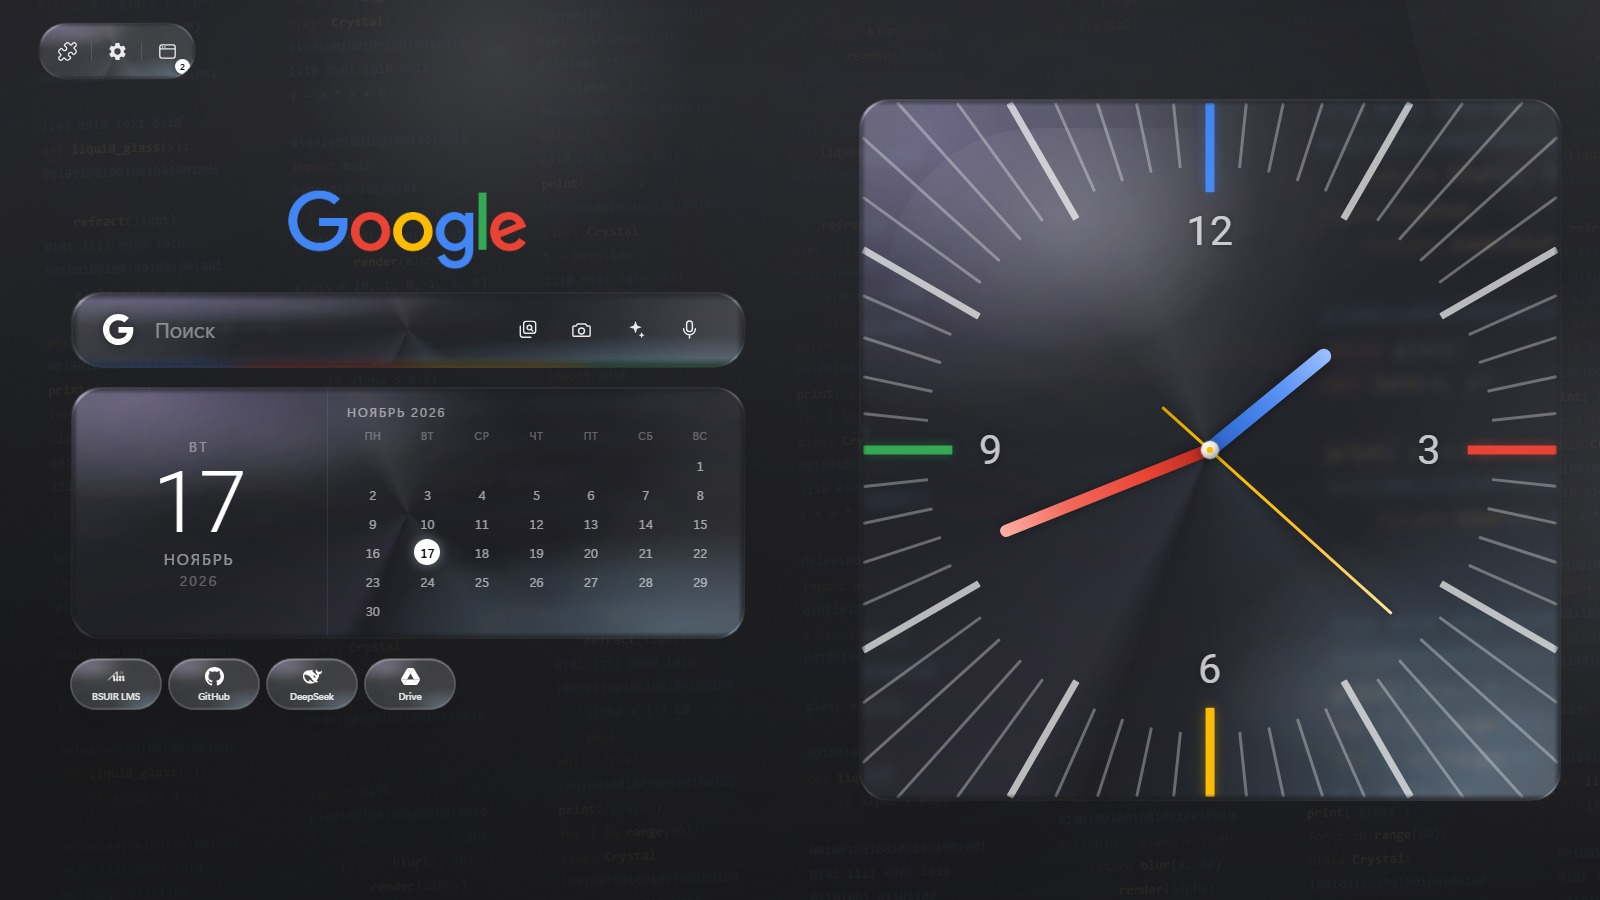
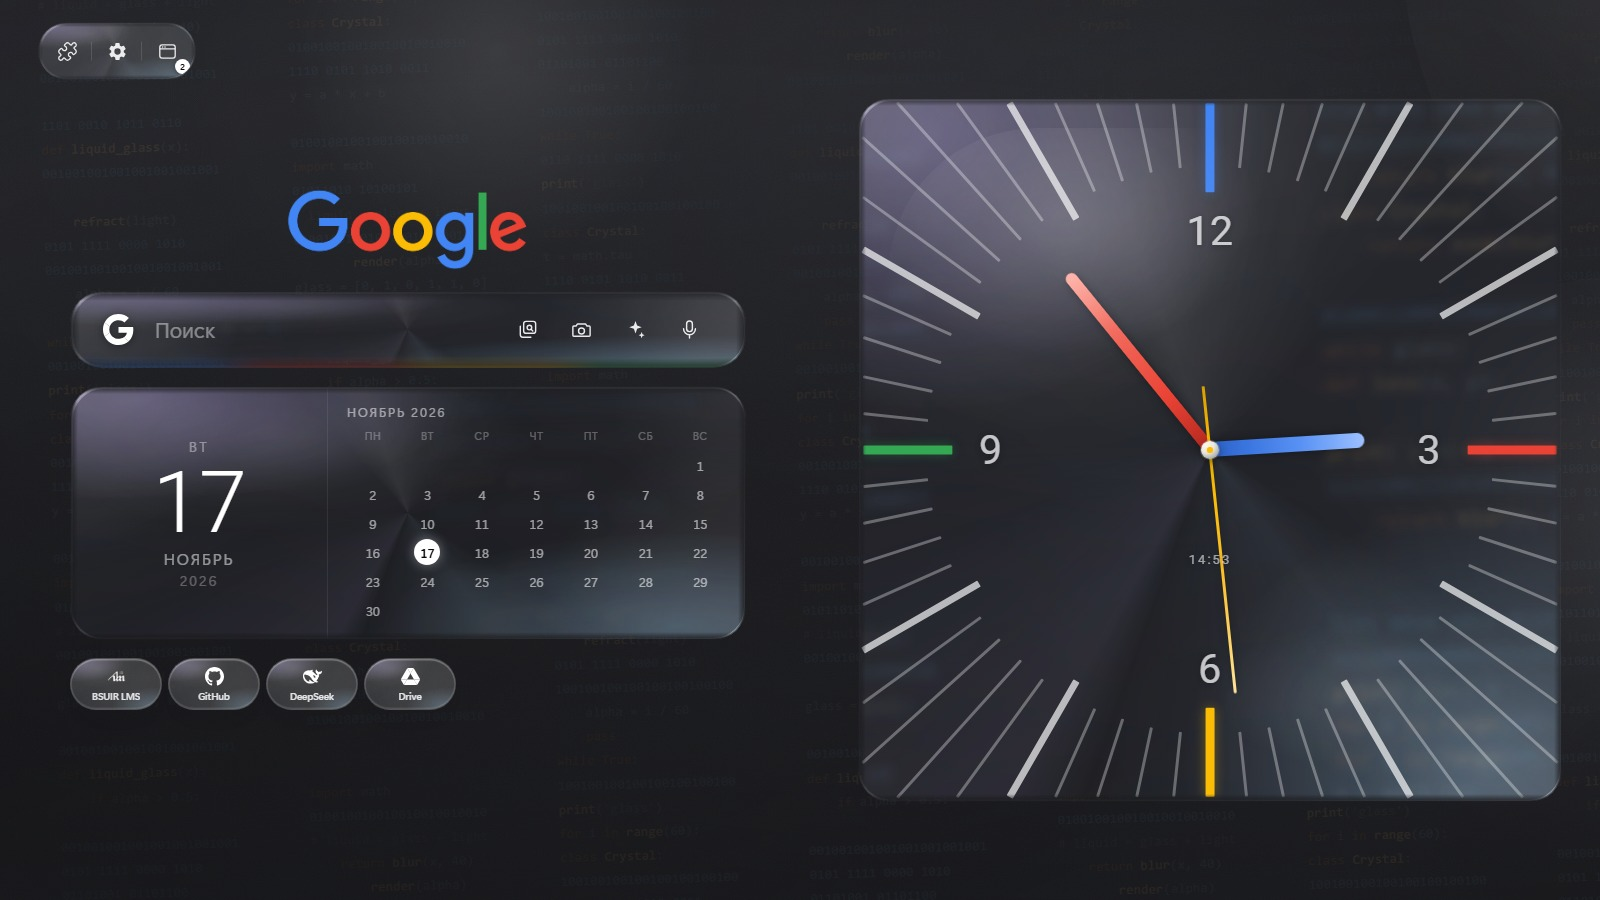
perf: optimize rendering and add digital clock time
- Add HH:MM display centered between the dial center and the 6 numeral
- Reduce background-code DOM by ~40% and remove full-page code blur
- Pause the clock when the tab is hidden or mostly offscreen
- Promote clock hands to compositor layers
- Update hour hand and digital time once per minute
- Translate README to English and refresh the main screenshot
- Bump extension version to 1.13.0

diff --git a/styles.css b/styles.css
@@ -85,7 +85,6 @@ body {
   pointer-events: none;
   user-select: none;
   opacity: 0.74;
-  filter: blur(0.4px);
 }
 
 .code__grid {
@@ -103,7 +102,7 @@ body {
   font-size: clamp(10px, 0.82vw, 12.5px);
   line-height: 1.85;
   letter-spacing: 0.02em;
-  color: rgba(169, 183, 198, 0.55);
+  color: rgba(169, 183, 198, 0.60);
 }
 
 /* палитра Darcula / PyCharm */
@@ -112,8 +111,6 @@ body {
 .tok-num     { color: rgba(104, 151, 187, 0.95); }
 .tok-fn      { color: rgba(255, 198, 109, 0.90); }
 .tok-comment { color: rgba(122, 126, 133, 0.85); }
-.tok-op      { color: rgba(169, 183, 198, 0.70); }
-.tok-name    { color: rgba(169, 183, 198, 0.60); }
 
 .code-veil {
   position: fixed;
@@ -159,7 +156,6 @@ body {
   top: -14%;
   right: -6%;
   background: radial-gradient(circle at 42% 38%, rgba(255, 255, 255, 0.36), rgba(255, 255, 255, 0.07) 44%, rgba(255, 255, 255, 0) 70%);
-  animation: drift-a 28s var(--ease) infinite alternate;
 }
 
 .blob--b {
@@ -168,7 +164,6 @@ body {
   top: 38%;
   right: 6%;
   background: radial-gradient(circle at 58% 42%, rgba(214, 218, 231, 0.26), rgba(160, 164, 180, 0.08) 46%, rgba(160, 164, 180, 0) 72%);
-  animation: drift-b 36s var(--ease) infinite alternate;
 }
 
 .blob--c {
@@ -177,7 +172,6 @@ body {
   bottom: -14%;
   left: 2%;
   background: radial-gradient(circle at 46% 52%, rgba(198, 202, 214, 0.24), rgba(120, 124, 138, 0.07) 48%, rgba(120, 124, 138, 0) 72%);
-  animation: drift-c 40s var(--ease) infinite alternate;
 }
 
 .blob--d {
@@ -186,7 +180,6 @@ body {
   top: 8%;
   left: 30%;
   background: radial-gradient(circle at 50% 50%, rgba(255, 255, 255, 0.19), rgba(255, 255, 255, 0) 70%);
-  animation: drift-d 32s var(--ease) infinite alternate;
 }
 
 /* диагональная полоса света — преломляется в стекле */
@@ -202,37 +195,9 @@ body {
     rgba(255, 255, 255, 0.05) 62%,
     rgba(255, 255, 255, 0) 100%);
   rotate: -26deg;
-  animation: drift-e 44s var(--ease) infinite alternate;
 }
 
-@keyframes drift-a {
-  0%   { transform: translate3d(0, 0, 0)      scale(1)   rotate(0deg); }
-  50%  { transform: translate3d(-5%, 6%, 0)   scale(1.08) rotate(10deg); }
-  100% { transform: translate3d(4%, -4%, 0)   scale(0.95) rotate(-7deg); }
-}
-@keyframes drift-b {
-  0%   { transform: translate3d(0, 0, 0)      scale(1); }
-  60%  { transform: translate3d(-8%, -7%, 0)  scale(1.14); }
-  100% { transform: translate3d(5%, 5%, 0)    scale(0.93); }
-}
-@keyframes drift-c {
-  0%   { transform: translate3d(0, 0, 0)      scale(1); }
-  50%  { transform: translate3d(7%, -5%, 0)   scale(1.1); }
-  100% { transform: translate3d(-4%, 4%, 0)   scale(0.97); }
-}
-@keyframes drift-d {
-  0%   { transform: translate3d(0, 0, 0)      scale(1); }
-  100% { transform: translate3d(6%, 8%, 0)    scale(1.16); }
-}
-@keyframes drift-e {
-  0%   { transform: translate3d(-4%, 3%, 0); }
-  100% { transform: translate3d(4%, -4%, 0); }
-}
-
-/* Лёгкий режим: фон статичный, без постоянных анимаций и blend-режимов */
-.ambient .blob {
-  animation: none !important;
-}
+/* Свет за стеклом статичный: без постоянных анимаций. */
 
 /* ---------------------------------------------------------
    Плёнка
@@ -662,6 +627,7 @@ body {
   transform-origin: 50% 100%;
   transform: translateX(-50%) rotate(var(--angle, 0deg));
   border-radius: 999px;
+  will-change: transform;
 }
 
 .hand--hour {
@@ -724,6 +690,26 @@ body {
   border-radius: 50%;
   background: var(--g-yellow);
   box-shadow: 0 0 8px rgba(251, 188, 5, 0.80);
+}
+
+/* цифровое время внизу циферблата — на месте модели часов */
+.clock__digital {
+  position: absolute;
+  left: 50%;
+  top: 67%;
+  z-index: 8;
+  translate: -50% -50%;
+
+  font-family: "Google Sans", "Roboto", "Segoe UI", Arial, sans-serif;
+  font-size: clamp(12px, 2cqw, 18px);
+  font-weight: 400;
+  line-height: 1;
+  letter-spacing: 0.16em;
+  color: rgba(250, 250, 252, 0.60);
+  font-variant-numeric: tabular-nums;
+  text-shadow: 0 1px 6px rgba(0, 0, 0, 0.35);
+  pointer-events: none;
+  user-select: none;
 }
 
 /* отражение на стекле циферблата */

diff --git a/script.js b/script.js
@@ -11,6 +11,7 @@
   const hourHand = document.getElementById("hourHand");
   const minuteHand = document.getElementById("minuteHand");
   const secondHand = document.getElementById("secondHand");
+  const digitalClock = document.getElementById("digitalClock");
 
   const QUARTER_COLORS = {
     0: "is-blue",    // 12
@@ -164,11 +165,14 @@
       } else if (match[4]) {
         const isCall = /^\s*\(/.test(code.slice(CODE_TOKEN_RE.lastIndex));
         const isDefinition = /(?:def|class)\s+$/.test(code.slice(0, match.index));
-        html += `<span class="${isCall || isDefinition ? "tok-fn" : "tok-name"}">${escapeCode(token)}</span>`;
-      } else if (match[5]) {
-        html += token;
+
+        // Обычные имена не оборачиваем: они наследуют базовый цвет строки.
+        html += isCall || isDefinition
+          ? `<span class="tok-fn">${escapeCode(token)}</span>`
+          : escapeCode(token);
       } else {
-        html += `<span class="tok-op">${escapeCode(token)}</span>`;
+        // Пробелы и пунктуация тоже не создают лишних DOM-узлов.
+        html += escapeCode(token);
       }
 
       last = CODE_TOKEN_RE.lastIndex;
@@ -282,21 +286,84 @@
 
   const angle = (el, deg) => el.style.setProperty("--angle", deg.toFixed(3) + "deg");
 
-  // Часы обновляются раз в секунду, а не 60 раз — это главный выигрыш по CPU.
+  // Часы обновляются раз в секунду и полностью останавливаются,
+  // когда вкладка скрыта — в фоне не тратятся CPU и батарея.
+  let clockTimer = null;
+  let clockInView = true;
+  let lastMinute = -1;
+
+  function canRunClock() {
+    return !document.hidden && clockInView;
+  }
+
   function tickClock() {
+    if (!canRunClock()) {
+      clockTimer = null;
+      return;
+    }
+
     const now = new Date();
     const sec = now.getSeconds();
-    const min = now.getMinutes() + sec / 60;
-    const hour = (now.getHours() % 12) + min / 60;
+    const minute = now.getMinutes();
+    const min = minute + sec / 60;
 
-    angle(hourHand, hour * 30);
+    // Часовая рука двигается раз в минуту: за секунду она смещается
+    // на сотые доли градуса, поэтому пересчитывать её чаще не нужно.
+    if (minute !== lastMinute) {
+      lastMinute = minute;
+
+      angle(hourHand, (now.getHours() % 12) * 30 + minute * 0.5);
+
+      if (digitalClock) {
+        const label = String(now.getHours()).padStart(2, "0") + ":" +
+          String(minute).padStart(2, "0");
+
+        if (digitalClock.textContent !== label) {
+          digitalClock.textContent = label;
+          clockEl.setAttribute("aria-label", "Текущее время: " + label);
+        }
+      }
+    }
+
     angle(minuteHand, min * 6);
     angle(secondHand, sec * 6);
 
-    window.setTimeout(tickClock, 1000 - (Date.now() % 1000));
+    clockTimer = window.setTimeout(tickClock, 1000 - (Date.now() % 1000));
   }
 
-  tickClock();
+  function stopClock() {
+    if (clockTimer !== null) {
+      window.clearTimeout(clockTimer);
+      clockTimer = null;
+    }
+  }
+
+  function startClock() {
+    if (clockTimer !== null || !canRunClock()) return;
+    tickClock();
+  }
+
+  document.addEventListener("visibilitychange", () => {
+    if (document.hidden) stopClock();
+    else startClock();
+  });
+
+  // На мобильных часах можно уйти вниз по странице — вне экрана
+  // стрелки не пересчитываются, пока часы снова не появятся.
+  if ("IntersectionObserver" in window && clockEl) {
+    const clockObserver = new IntersectionObserver((entries) => {
+      clockInView = entries.some(
+        (entry) => entry.isIntersecting && entry.intersectionRatio >= 0.1,
+      );
+
+      if (clockInView) startClock();
+      else stopClock();
+    }, { threshold: [0, 0.1] });
+
+    clockObserver.observe(clockEl);
+  }
+
+  startClock();
 
   /* ---------- Поиск ---------- */
 

diff --git a/index.html b/index.html
@@ -93,6 +93,8 @@
       <div class="hand hand--second" id="secondHand" aria-hidden="true"></div>
       <div class="pin" aria-hidden="true"></div>
 
+      <div class="clock__digital" id="digitalClock" aria-hidden="true">00:00</div>
+
       <div class="crystal" aria-hidden="true"></div>
     </div>
   </main>

diff --git a/README.md b/README.md
@@ -32,7 +32,7 @@ Without the extension, `index.html` opens as a regular page, but `chrome://` but
 
 ### Time and date
 
-- **iOS-style analog clock** — a square glass panel with the same edges as the other cards and no inner outline. Ticks start at the panel edges, numerals are 12 / 3 / 6 / 9, hour and minute hands are thick, and the thin second hand has a tail and a center dot. The clock updates once per second.
+- **iOS-style analog clock** — a square glass panel with the same edges as the other cards and no inner outline. Ticks start at the panel edges, numerals are 12 / 3 / 6 / 9, hour and minute hands are thick, and the thin second hand has a tail and a center dot. The clock updates once per second. Above the 6 numeral, centered between the dial center and the 6, the current time is shown in small digital numerals.
 - **Calendar** — a wide card below the search bar: the current weekday, day, month, and year on the left; a full-month grid with today highlighted on the right. Quick links sit below the calendar.
 
 ### Search
@@ -92,6 +92,11 @@ Without the extension, `index.html` opens as a regular page, but `chrome://` but
 Glasshour is designed for modest CPUs and low memory usage:
 
 - the clock updates **once per second** instead of 60 times via `requestAnimationFrame`;
+- the hour hand and digital time update **once per minute**, while the minute and second hands update once per second;
+- the clock completely stops when the tab is hidden or the clock is mostly out of view;
+- clock hands are promoted to compositor layers, so their rotation does not repaint the whole glass card;
+- the background code uses about **40% fewer DOM elements** and **45% fewer spans** — plain identifiers and punctuation no longer get wrapper elements;
+- the full-page 0.4 px blur on the code background was removed;
 - the background is static: no infinite animations and no heavy light-blob blur;
 - glass uses a 20 px blur instead of 34 px;
 - quick-link tiles have no `backdrop-filter` or masks;
@@ -100,7 +105,7 @@ Glasshour is designed for modest CPUs and low memory usage:
 - all hover effects are removed: no `pointermove`, no per-frame highlights, no card lift;
 - **0 active CSS animations at rest**; only the microphone pulses while listening.
 
-Reference measurement in headless Chrome at 1920×1080: about **1 MB JS heap** and **0 running animations** after load. Results vary by system.
+Reference measurement in headless Chrome at 1920×1080: about **0.8 MB JS heap**, roughly **1,800 DOM elements**, and **0 running animations** after load. Results vary by system.
 
 ## Limitations
 
@@ -165,4 +170,4 @@ Copyright (c) 2026 Glasshour contributors.
 
 ## Version
 
-**1.11.0** — Glasshour naming, refreshed documentation, Chrome window switching, the current search styling, README screenshots, and MIT licensing.
+**1.13.0** — performance pass: fewer background-code DOM nodes, no full-page code blur, compositor-friendly clock hands, and a clock that pauses when hidden or offscreen. Visuals unchanged.
